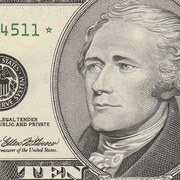
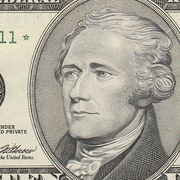
Testimonial 3: the crop centres the note's portrait oval, not the head
Able corrected himself: the target is the centre of the oval, not the nose. Measured off the
blurred note rather than by eye, since the oval's frame is not a clean edge: averaging the
engraving away puts the oval's interior at roughly x 380..1000 and y 50..715, so its centre is
near (690, 382) of the 1828x760 note - about 86px left of and 78px below the crop that centred the
head. The crop is now a 608px square on that centre: (386,78,994,686).

Verified by the same relative check the previous round used: the two crops side by side, each with
the mask and a centre crosshair - the oval's centre now sits essentially on the crosshair, where
the old crop had it offset.

Its src moves to ?v=20261012.68.

diff --git a/index.html b/index.html
@@ -319,7 +319,7 @@
                         <!-- Testimonial 3 -->
                         <div class="testimonial">
                           <div class="img">
-                            <img src="img/testimonials/testimonial-3.jpg?v=20261012.67" alt="Alexander Hamilton">
+                            <img src="img/testimonials/testimonial-3.jpg?v=20261012.68" alt="Alexander Hamilton">
                           </div>
                           <div class="text">
                             <p>Legacy.<br>What is a legacy?<br>It's planting seeds in a garden you never get to see.</p>
